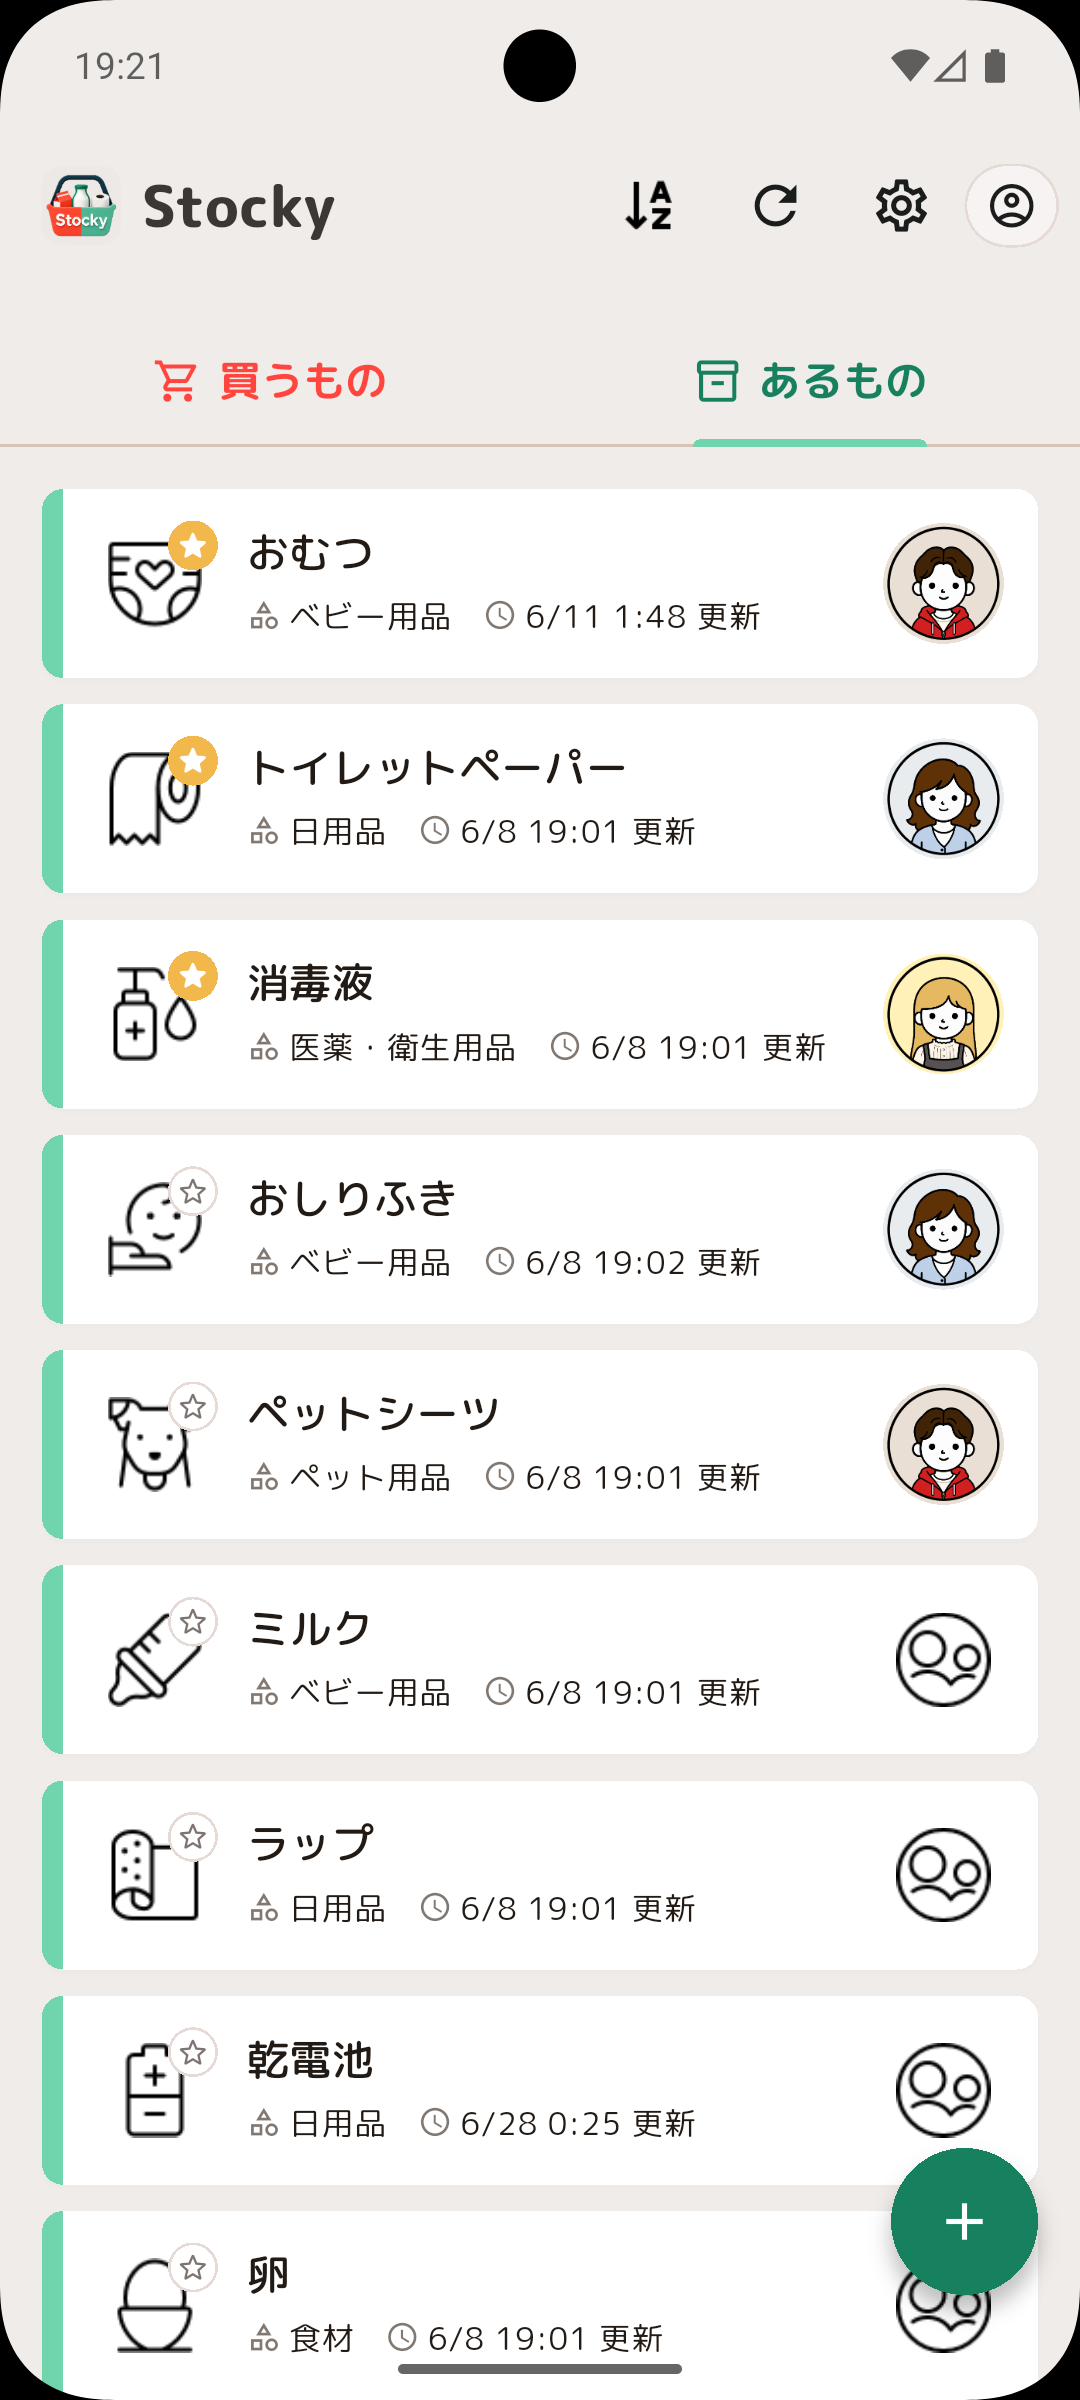
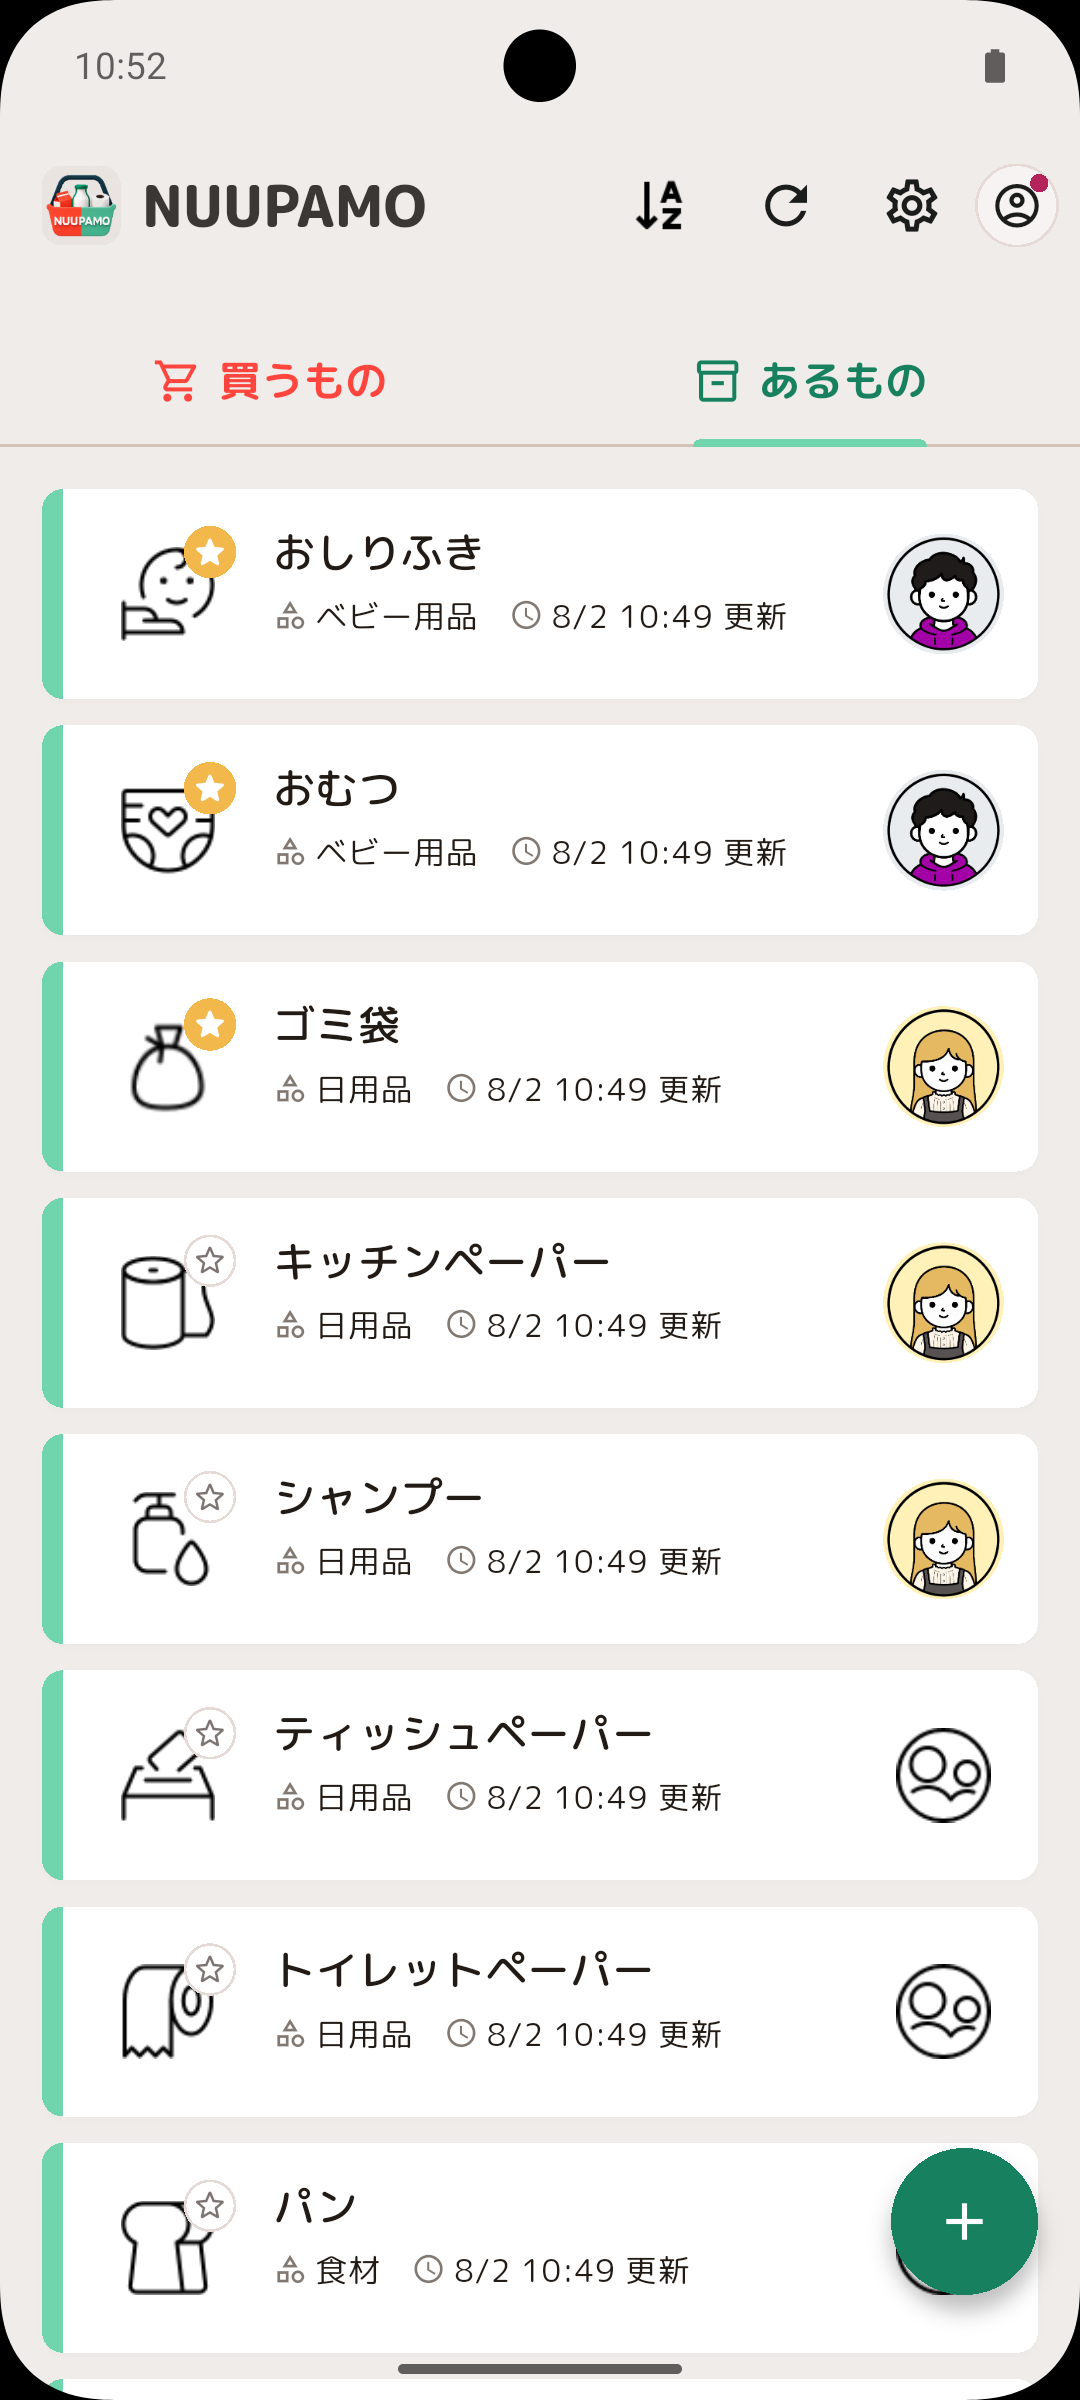
🖼 NUUPAMOのアイコンとスクリーンショットを更新

diff --git a/public/stocky/index.html b/public/stocky/index.html
@@ -2,8 +2,8 @@
 <html lang="ja">
     <head>
         <meta charset="UTF-8" />
-        <link rel="icon" type="image/png" href="../images/stocky/app_icon.png" />
-        <link rel="apple-touch-icon" href="../images/stocky/app_icon.png" />
+        <link rel="icon" type="image/png" href="../images/stocky/icon.png" />
+        <link rel="apple-touch-icon" href="../images/stocky/icon.png" />
         <meta name="viewport" content="width=device-width, initial-scale=1.0" />
         <title>NUUPAMO | 買うものとあるものを、メンバーとひとつに。</title>
         <meta
@@ -127,7 +127,7 @@
     <body>
         <header class="lp-header">
             <a href="../" class="brand-link" aria-label="Moa Lab.トップへ戻る">
-                <img src="../images/stocky/app_icon.png" alt="" class="brand-icon" />
+                <img src="../images/stocky/icon.png" alt="" class="brand-icon" />
                 <span>NUUPAMO</span>
             </a>
             <nav class="header-nav" aria-label="ページ内ナビゲーション">
@@ -335,6 +335,10 @@
                         <img src="../images/stocky/screenshot/SS04.png" alt="NUUPAMOのメンバー管理画面" />
                         <figcaption>メンバー管理</figcaption>
                     </figure>
+                    <figure class="screen-card fade-in">
+                        <img src="../images/stocky/screenshot/SS05.png" alt="NUUPAMOのQRコード招待画面" />
+                        <figcaption>QRコードで招待</figcaption>
+                    </figure>
                 </div>
             </section>
 
@@ -411,7 +415,7 @@
             </section>
 
             <section class="final-cta" aria-labelledby="final-title">
-                <img src="../images/stocky/app_icon.png" alt="" class="final-icon fade-in" />
+                <img src="../images/stocky/icon.png" alt="" class="final-icon fade-in" />
                 <div class="final-copy fade-in">
                     <p class="eyebrow">Coming Soon</p>
                     <h2 id="final-title">買い忘れを、共有で減らす。</h2>

diff --git a/public/stocky/style.css b/public/stocky/style.css
@@ -283,8 +283,8 @@ main {
 
 .bubble-grid {
     display: grid;
-    grid-template-columns: repeat(4, minmax(0, 1fr));
-    gap: 0.55rem;
+    grid-template-columns: repeat(2, minmax(0, 1fr));
+    gap: 1.1rem;
     align-items: start;
 }
 
